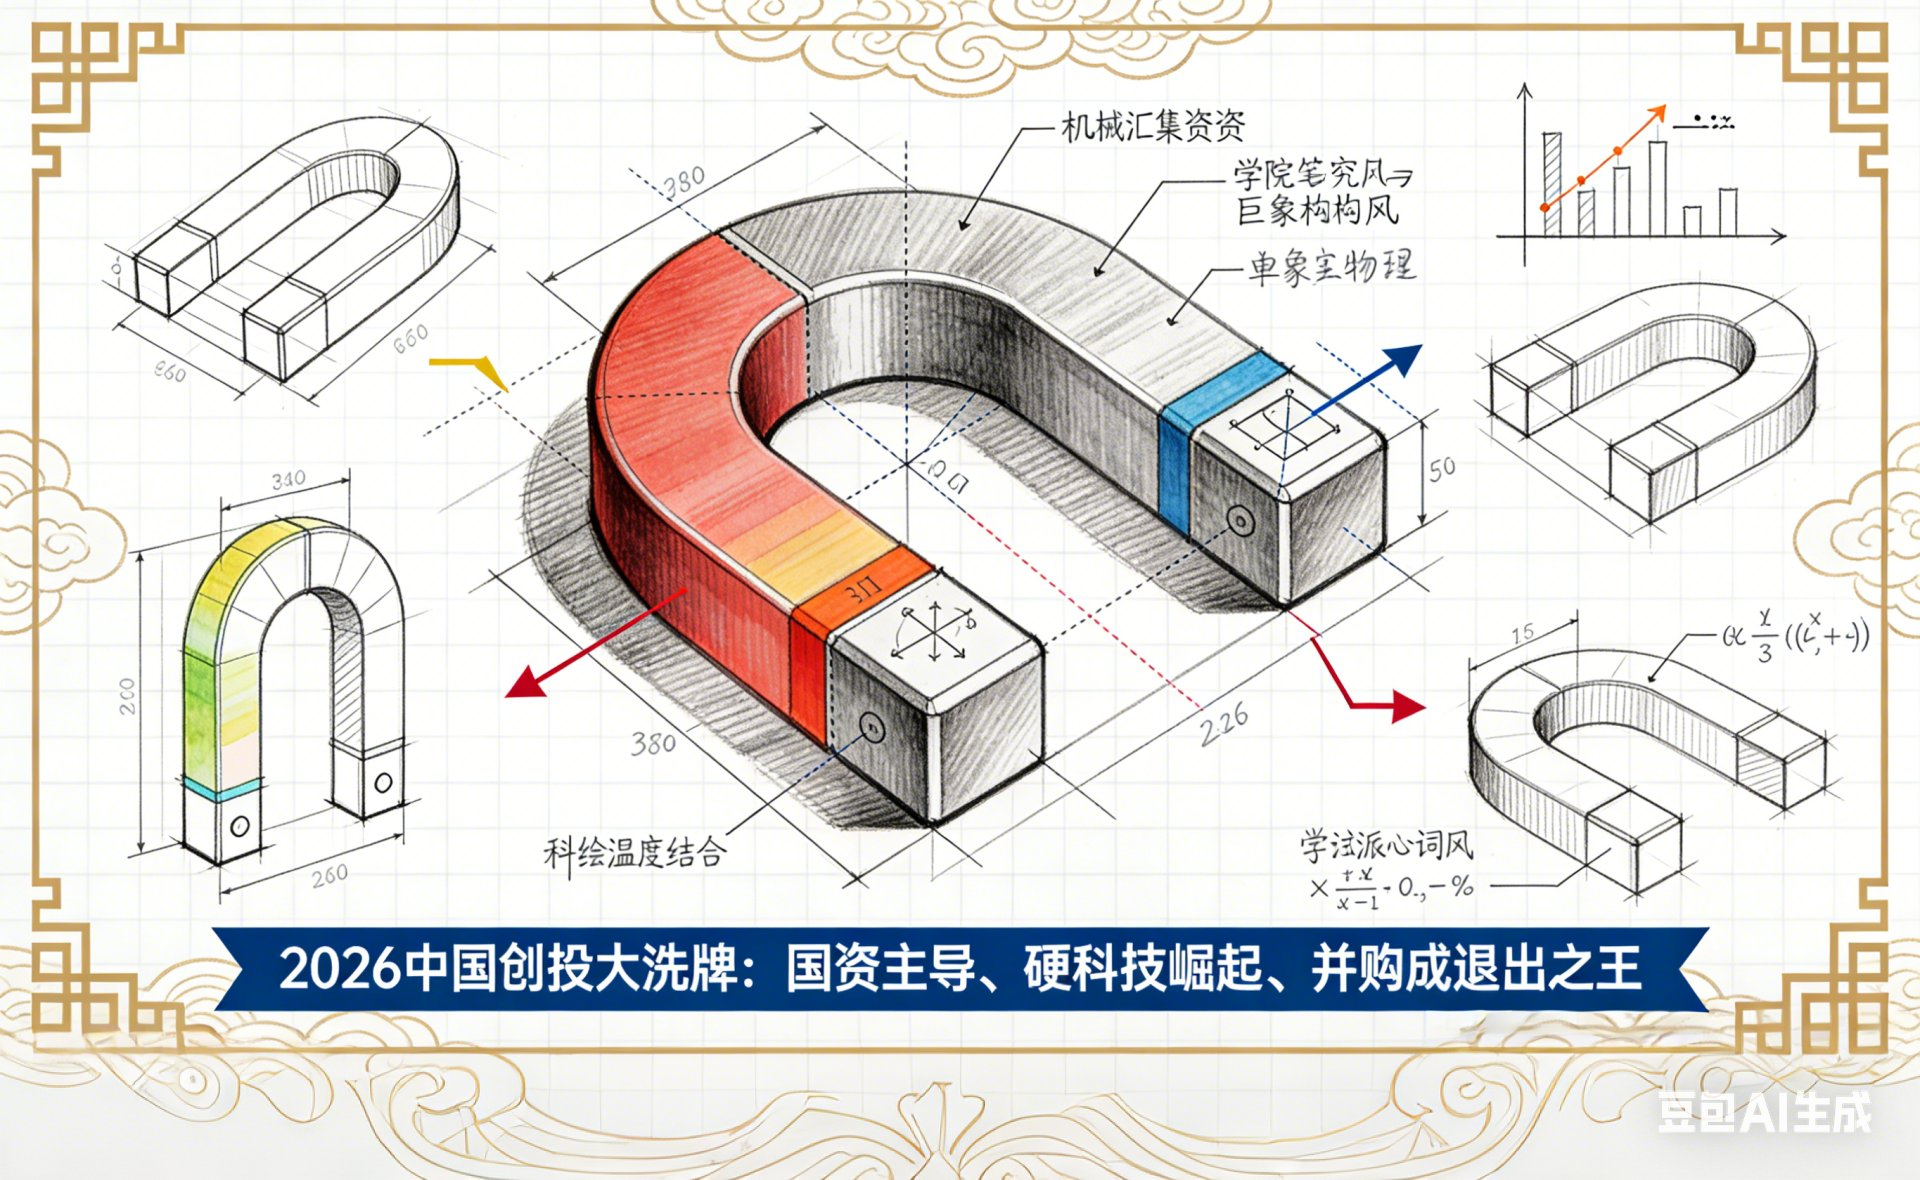
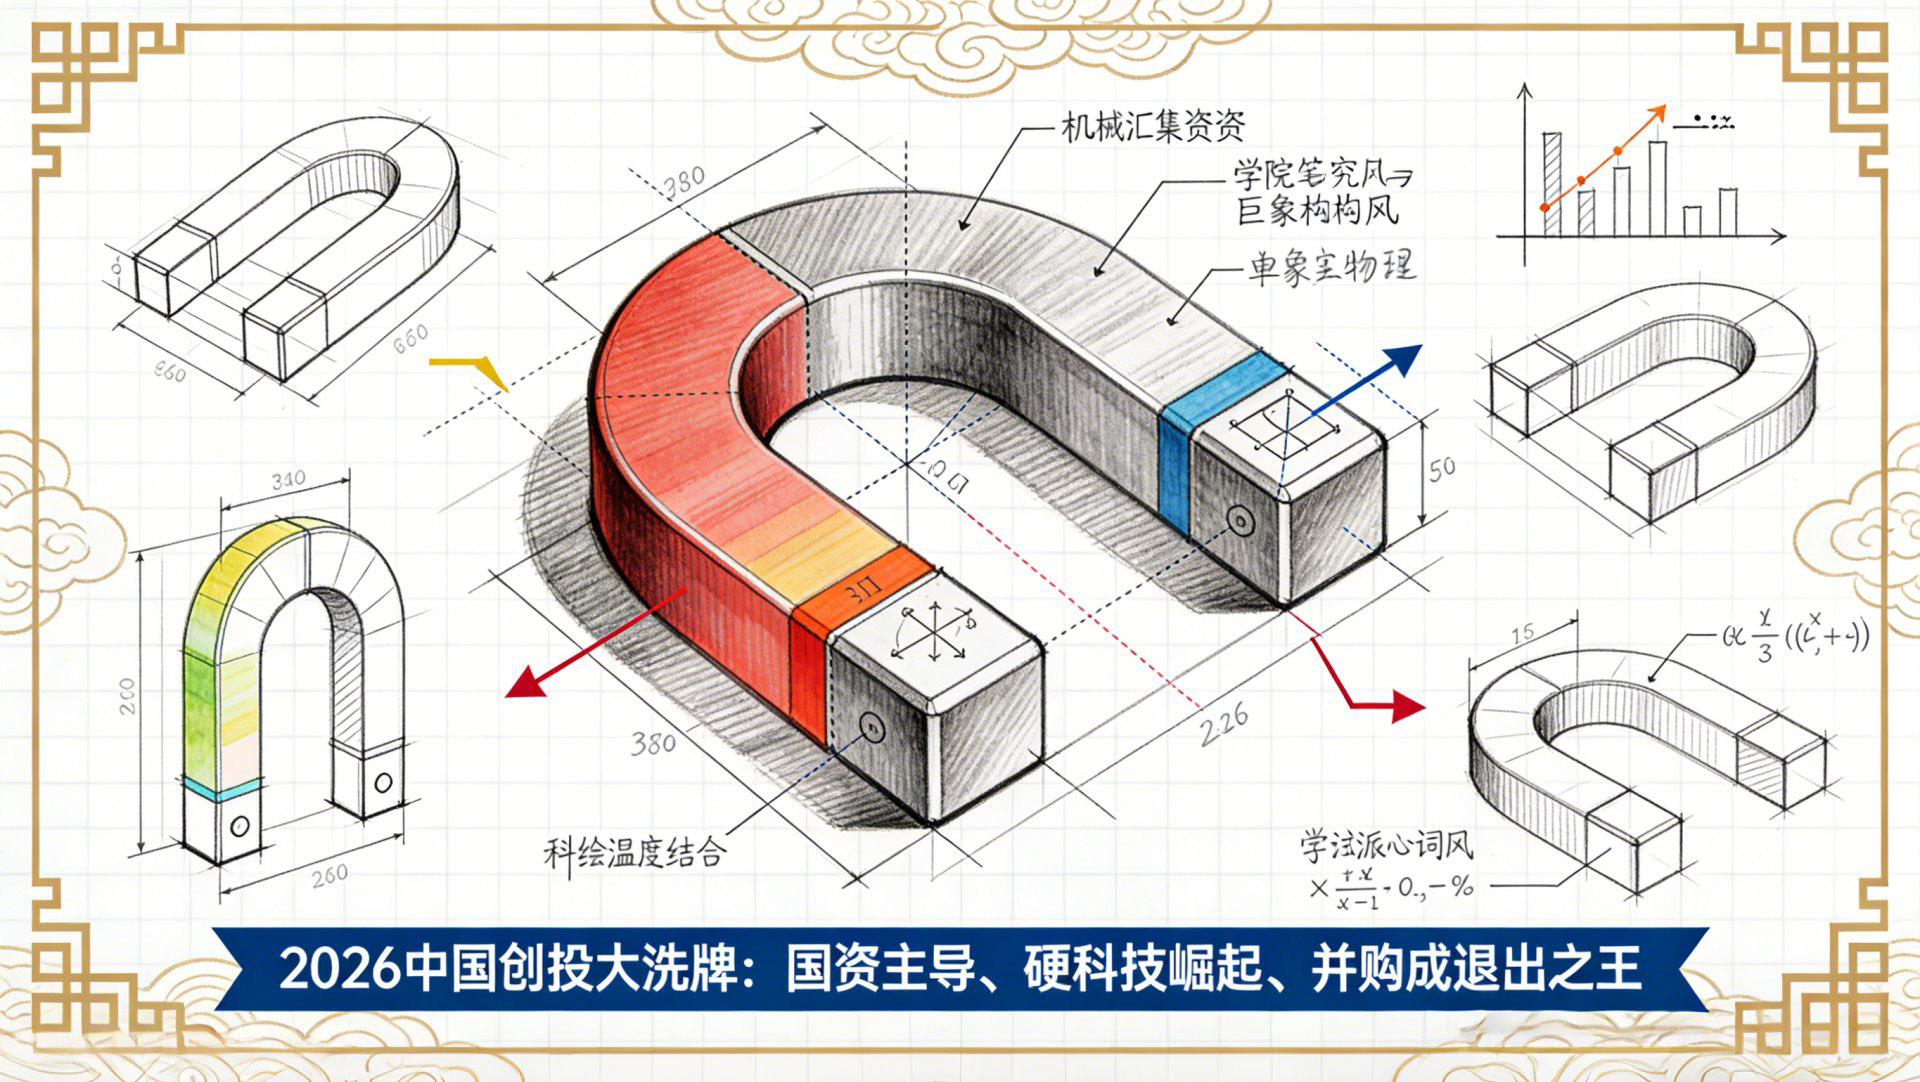
Add files via upload

diff --git a/examples/perovskite-visual-note-prompt-b.md b/examples/perovskite-visual-note-prompt-b.md
@@ -1,0 +1,75 @@
+# 案例 B：同一段文字，换一个主体 —— 阶梯金字塔
+
+> **为什么有第二个案例**：本 Skill 的核心承诺是「每次创作的主体都不同」。
+> 案例 A 选了 **沙漏引擎**（筛选隐喻），案例 B 选了 **阶梯金字塔**（能级阶梯隐喻）。
+> 底本、主标题、信息分区完全一样，只有核心主体和隐藏纹样变了 —— 出来的完全是两张图。
+
+- 底本：钙钛矿「可调门槛」科普段落（同案例 A）
+- 核心主体：**阶梯金字塔** STEPPED PYRAMID
+- 画幅：9:16 竖版 / 1024×1536
+- 隐藏纹样：阿拉伯几何纹（案例 A 用的是中国回纹）
+- 成图：`../assets/perovskite-example-b.png`
+
+![案例 B 成图](../assets/perovskite-example-b.png)
+
+---
+
+## 一、完整提示词（可直接粘给豆包 / 即梦）
+
+请生成一张 9:16 竖版（1024×1536）的学院派手绘视觉笔记插画。
+
+【主标题】画面顶部居中，粗衬线印刷体双语：
+「钙钛矿：唯一能把『门槛』调出来的光伏材料」
+「PEROVSKITE: THE MATERIAL WITH A TUNABLE THRESHOLD」
+
+【核心主体】画面视觉中心：一座**剖开的阶梯金字塔**——每一级台阶都装有螺旋升降机构与滑杆，台阶高度可连续调节，台阶侧面标注刻度 **1.2 → 3.0 eV**；塔身纵向剖开，露出内部能级阶梯与光子粒子沿台阶逐级跃迁的轨迹箭头；金字塔底部并列两块固定不可调的对照台阶，标注 **Si 1.12 eV** 与 **GaAs 1.42 eV** 并打叉标记；塔顶悬浮一卷可弯折卷起的超薄柔性薄膜片，标注厚度 **d ≈ 0.5 μm**（发丝 1/100）；塔体表面密布晶格缺陷小点，旁边标注 V_oc 依然很高。
+- 主体四周环绕 4 个小型设计草图：正视图、侧视图、45° 俯视图、爆炸分解图，简洁线条 + 铅笔排线阴影，标注关键尺寸与数据。
+- 机械制图标注：尺寸线、双向箭头、角度弧线、坐标轴、向量箭头、剖面符号。
+
+【信息分区】双语印刷体短标签 + 指引线：
+① 门槛出厂焊死 / FIXED THRESHOLD
+② 卤素配比 / HALIDE RATIO —— I·Br·Cl 配比旋钮对应 1.2–3.0 eV 滑杆
+③ 量体裁衣叠层 / TANDEM MATCH
+④ 极薄柔性 / ULTRA-THIN & FLEXIBLE —— d ≈ 0.5 μm
+⑤ 缺陷容忍 / DEFECT TOLERANCE
+
+【画布与底色】纯白主色，极淡 5mm 打印方格纸网格，四周不留深色底图。
+
+【线条与质感】HB/2B 铅笔素描干练线条，阴影用排线与交叉排线。
+
+【学术公式】ABX₃；E_g = 1.2–3.0 eV；E_g(Si) = 1.12 eV；E_g(GaAs) = 1.42 eV；λ = 1240/E_g (nm)；d ≈ 0.5 μm；V_oc；η
+
+【色彩】黑白灰为主，台阶 eV 刻度条、卤素 I/Br/Cl 色点、叠层淡色带用低饱和马克笔平涂，彩色面积 < 12%。
+
+【手写批注】5 处：「出厂焊死 vs 随配方变」「台阶高度连续可调 1.2–3.0 eV」「0.5μm＝发丝 1/100」「不用高温真空，可印刷」「缺陷多也不掉电压」
+
+【学院派细节】便签贴、回形针、胶带痕、页边编号、装订孔、红色批阅笔迹。
+
+【隐藏纹样】极淡的**阿拉伯几何纹**作底纹，不抢主体。
+
+【排版】内容充满画幅，严格网格对齐。
+
+【负向提示】不要真人、不要 3D 渲染质感、不要霓虹渐变、不要大面积深色背景、不要与主题无关的词语、不要错别字、不要水印。
+
+---
+
+## 二、精简版提示词（120 字内）
+
+9:16 竖版学院派手绘视觉笔记：白底方格纸上铅笔素描的「剖开阶梯金字塔」，每级台阶带升降滑杆与 1.2–3.0 eV 刻度，底部并列 Si 1.12 / GaAs 1.42 打叉固定台阶，塔顶悬浮 0.5 μm 可卷曲薄膜；四周四组草图与尺寸标注；含 ABX₃、E_g、λ=1240/E_g 公式，双语标签，淡彩马克笔色条，手写中文批注，便签贴，隐约阿拉伯几何纹底纹。
+
+---
+
+## 三、A / B 对照：同一个底本能差多少
+
+| 维度 | 案例 A | 案例 B |
+|---|---|---|
+| 底本文字 | 钙钛矿「可调门槛」 | 完全相同 |
+| 主标题 | 完全相同 | 完全相同 |
+| 核心主体 | 沙漏引擎 | 阶梯金字塔 |
+| 隐喻逻辑 | 光子穿过阀门被**筛选** | 台阶高度被**调高调低** |
+| 带隙的表达 | 阀门开口大小 | 每级台阶的升降高度 |
+| 隐藏纹样 | 中国回纹 | 阿拉伯几何纹 |
+| 视觉重心 | 中间腰部（节流点） | 纵向堆叠（阶梯阵列） |
+| 出图风格 | 机械腔体、粒子流 | 建筑体块、剖面层级 |
+
+**结论**：换主体 = 换隐喻 = 换整张图的叙事结构，而标题与信息分区可以原封不动。这正是 Skill 里「20 选 1」这一步的价值。

diff --git a/README_EN.md b/README_EN.md
@@ -1,8 +1,25 @@
-# Academic Visual-Notes Illustrator — AI Skill
+<div align="center">
+
+## AIOpenVC · Open AI Toolkit for Investment
+
+**Academic Visual-Notes Illustrator — AI Skill**
+
+*Reshaping how primary-market information gets expressed, with AI · by Yijue*
+
+[![License: MIT](https://img.shields.io/badge/License-MIT-green.svg)](./LICENSE)
+[![Stars](https://img.shields.io/github/stars/one5ds/visual-notes-illustrator?style=flat-square&label=Stars&color=yellow)](https://github.com/one5ds/visual-notes-illustrator/stargazers)
+[![PRs Welcome](https://img.shields.io/badge/PRs-welcome-brightgreen.svg)](./CONTRIBUTING.md)
+[![i18n](https://img.shields.io/badge/lang-中文%20%2F%20English-blue.svg)](./README.md)
+
+⭐ **If this method helps you, hit Star in the top-right corner — it's the best support you can give.** ⭐
+
+</div>
+
+---
 
 > Turn any paragraph into an academic, hand-drawn "visual notes" illustration — and get a precise, ready-to-paste image-generation prompt.
 
-[简体中文 README →](./README.md) · [Example prompt →](./examples/perovskite-visual-note-prompt.md)
+[简体中文 README →](./README.md) · [Example prompt →](./examples/perovskite-visual-note-prompt.md) · [Contributing →](./CONTRIBUTING.md)
 
 ![Example: perovskite "tunable threshold" visual note, 9:16 portrait](./assets/perovskite-example.png)
 
@@ -53,11 +70,11 @@ Prism refraction tower, gear tree, neuron coral, floating compass, fission nucle
 
 ```bash
 # WorkBuddy (user level)
-git clone https://github.com/<your-username>/visual-notes-illustrator.git \
+git clone https://github.com/one5ds/visual-notes-illustrator.git \
   ~/.workbuddy/skills/visual-notes-illustrator
 
 # Claude Code (user level)
-git clone https://github.com/<your-username>/visual-notes-illustrator.git \
+git clone https://github.com/one5ds/visual-notes-illustrator.git \
   ~/.claude/skills/visual-notes-illustrator
 ```
 
@@ -81,9 +98,11 @@ visual-notes-illustrator/
 ├── README.md                # Chinese README
 ├── README_EN.md             # This file
 ├── LICENSE                  # MIT
+├── CONTRIBUTING.md          # Contributing guide (subject-pool entries)
 ├── .gitignore
 ├── assets/
-│   ├── perovskite-example.png
+│   ├── perovskite-example.png    # Case A render (hourglass engine)
+│   ├── perovskite-example-b.png  # Case B render (stepped pyramid)
 │   └── gallery/
 │       ├── vc-landscape-2026.png       # 2026 VC landscape reshuffle
 │       ├── compass-imperfect-path.jpg  # Trace a perfect path in imperfection
@@ -91,7 +110,8 @@ visual-notes-illustrator/
 │       ├── pen-wisdom-labels.jpg       # Pen & prayer beads — annotated concept
 │       └── pen-wisdom-blueprint.jpg    # Pen & prayer beads — drafting sheet
 └── examples/
-    └── perovskite-visual-note-prompt.md
+    ├── perovskite-visual-note-prompt.md    # Case A prompt (hourglass engine)
+    └── perovskite-visual-note-prompt-b.md # Case B prompt (stepped pyramid)
 ```
 
 ## 9. Gallery
@@ -132,6 +152,25 @@ One visual spec, different source texts → different core subjects, different h
 </table>
 
 > The same source text supports multiple iterations: the last row shows two render directions — an annotated concept sheet and a drafting sheet — for one theme.
+
+### Same text, different subject = different picture (Case A / B)
+
+Identical source text, title and information zones — only the core subject and hidden motif change:
+
+<table>
+  <tr>
+    <td align="center" width="50%">
+      <img src="./assets/perovskite-example.png" alt="Case A hourglass engine"><br>
+      <sub><b>Case A · Hourglass Engine</b><br>Metaphor: photons filtered through an adjustable valve · Motif: Chinese fret</sub>
+    </td>
+    <td align="center" width="50%">
+      <img src="./assets/perovskite-example-b.png" alt="Case B stepped pyramid"><br>
+      <sub><b>Case B · Stepped Pyramid</b><br>Metaphor: step height raised and lowered · Motif: Arabic geometric</sub>
+    </td>
+  </tr>
+</table>
+
+Full prompts: [Case A](./examples/perovskite-visual-note-prompt.md) · [Case B](./examples/perovskite-visual-note-prompt-b.md)
 
 ## 10. License
 

diff --git a/CONTRIBUTING.md b/CONTRIBUTING.md
@@ -1,0 +1,114 @@
+# 贡献指南 / Contributing
+
+感谢你愿意给这个 Skill 添一块砖。最容易上手、也最有价值的贡献，就是**往核心主体元素池里加新词条**。
+
+Thanks for contributing. The easiest and most valuable contribution is **adding new entries to the core-subject pool**.
+
+---
+
+## 一、三种贡献方式
+
+| 方式 | 难度 | 说明 |
+|---|---|---|
+| ① 提交新元素词条 | ⭐ | 往 `SKILL.md` 的 50 元素池里加词（见第二节规范） |
+| ② 提交新案例 | ⭐⭐ | 往 `examples/` 加一个「底本 + 提示词 + 成图」的完整案例 |
+| ③ 改进提示词模板 | ⭐⭐⭐ | 调整风格规范、负向词、画幅参数等，需说明改动理由与前后对比 |
+
+---
+
+## 二、元素词条提交规范（重点）
+
+### 命名要求
+
+- **中文名 2–5 个字**，必须是一个**可画的形体**，不是抽象概念
+  - ✅ 齿轮树、沙漏引擎、洋葱剖面球
+  - ❌ 可持续发展、认知升级（不是形体，画不出来）
+- 具象物体、抽象几何体、机械装置、生物结构都可以
+- 不与池中已有词条重复或近义（提交前先搜一遍 `SKILL.md`）
+
+### 必须提供的四项信息
+
+```markdown
+- 中文名：气泡上升塔
+- English：Rising Bubble Tower
+- 隐喻指向：适合表达"层级跃迁 / 逐级筛选 / 能量由低到高"的主题
+- 适用主题类型：物理能级、组织晋升、数据分层、成长路径
+```
+
+### 评判标准（ maintainer 会按这四条审）
+
+1. **可画性**：能在铅笔素描里画出清晰结构，有可剖切的层次
+2. **通用性**：不只适配某一个特定主题，至少能套用到 3 类以上不同底本
+3. **区分度**：与池中已有词条视觉差异明显（换个词 ≠ 换张图）
+4. **无侵权**：不使用受版权保护的具体 IP 形象或品牌造型
+
+### 不要提交
+
+- 真实品牌 Logo、卡通 IP 形象
+- 纯抽象概念词（"自由""熵增"这类不是形体的）
+- 过于复杂的组合体（超过 3 个部件叠加，模型画不准）
+
+---
+
+## 三、提交步骤
+
+```bash
+# 1. Fork 本仓库 → 克隆你的 fork（下面这行 Fork 后请改成你自己的用户名）
+git clone https://github.com/one5ds/visual-notes-illustrator.git
+cd visual-notes-illustrator
+
+# 2. 新建分支
+git checkout -b feat/add-subject-terms
+
+# 3. 改文件（SKILL.md 中文版 + SKILL_EN.md 英文版同步改）
+#    一次建议加 1–5 个词条，便于评审
+
+# 4. 提交，commit 信息按下面格式
+git add .
+git commit -m "feat(subjects): 新增气泡上升塔等 3 个核心主体词条"
+git push origin feat/add-subject-terms
+```
+
+然后到 GitHub 发起 Pull Request，标题同 commit 信息，正文用这个模板：
+
+```markdown
+### 改动类型
+- [ ] 新增元素词条  - [ ] 新增案例  - [ ] 改进提示词模板
+
+### 新增词条
+| 中文名 | English | 隐喻指向 | 适用主题 |
+|---|---|---|---|
+| 气泡上升塔 | Rising Bubble Tower | 逐级跃迁、由低到高 | 能级、晋升、分层 |
+
+### 自检
+- [ ] 已确认不与池中已有词条重复
+- [ ] 中文名 2–5 字且是可画形体
+- [ ] 中英文版本已同步修改
+- [ ] 每个词条附了隐喻指向与适用主题类型
+```
+
+---
+
+## 四、新增案例的规范
+
+往 `examples/` 提交案例时，请包含三样东西：
+
+1. **底本文字**（一小段即可，注明出处或声明原创）
+2. **完整提示词 + 120 字精简版**（存为 `xxx-prompt.md`）
+3. **成图**（存到 `assets/`，文件名与文档对应，单张建议 < 5MB）
+
+案例要在 README 的「作品画廊」里能直观看出**主体与上一次不同**——同一个底本换主体出两张图的对照案例优先收录。
+
+---
+
+## 五、行为准则
+
+- 讨论对事不对人，评审意见针对词条质量，不针对提交者
+- 提交内容默认采用 MIT 协议授权
+- 图片类贡献请确保你有使用权（自己生成或已获授权）
+
+---
+
+## 六、联系方式
+
+提 Issue 时请带上：你的底本文字、用的模型（豆包/即梦/Midjourney/其他）、出图结果、期望改进点。有图必附，沟通效率翻倍。

diff --git a/README.md b/README.md
@@ -1,10 +1,27 @@
-# 学院派视觉笔记插画 Skill
+<div align="center">
+
+## AIOpenVC · 开放式 AI 投资工具生态
+
+**学院派视觉笔记插画 Skill**
+
+*用 AI 重构一级市场的信息表达 · 主理人：一觉同学*
+
+[![License: MIT](https://img.shields.io/badge/License-MIT-green.svg)](./LICENSE)
+[![Stars](https://img.shields.io/github/stars/one5ds/visual-notes-illustrator?style=flat-square&label=Stars&color=yellow)](https://github.com/one5ds/visual-notes-illustrator/stargazers)
+[![PRs Welcome](https://img.shields.io/badge/PRs-welcome-brightgreen.svg)](./CONTRIBUTING.md)
+[![i18n](https://img.shields.io/badge/lang-中文%20%2F%20English-blue.svg)](./README_EN.md)
+
+⭐ **如果这套方法论对你有用，请点右上角 Star —— 这是对它最好的支持** ⭐
+
+</div>
+
+---
 
 > 把任何一段文字，变成一张「实验室研究记录」质感的手绘视觉笔记插画，并产出豆包 / 即梦 / Midjourney 可用的精准提示词。
 >
 > Turn any paragraph into an academic hand-drawn "visual notes" illustration — with ready-to-use image-generation prompts.
 
-[English README →](./README_EN.md) · [示例 Example →](./examples/perovskite-visual-note-prompt.md)
+[English README →](./README_EN.md) · [示例 Example →](./examples/perovskite-visual-note-prompt.md) · [贡献指南 →](./CONTRIBUTING.md)
 
 ![示例：钙钛矿「可调门槛」视觉笔记（9:16 竖版）](./assets/perovskite-example.png)
 
@@ -83,9 +100,11 @@ visual-notes-illustrator/
 ├── README.md                # 本文件
 ├── README_EN.md             # English README
 ├── LICENSE                   # MIT
+├── CONTRIBUTING.md           # 贡献指南（重点：元素池新词条规范）
 ├── .gitignore
 ├── assets/
-│   ├── perovskite-example.png          # 示例成图（钙钛矿）
+│   ├── perovskite-example.png          # 案例 A 成图（沙漏引擎）
+│   ├── perovskite-example-b.png        # 案例 B 成图（阶梯金字塔）
 │   └── gallery/                        # 作品画廊
 │       ├── vc-landscape-2026.png       # 2026 创投大洗牌
 │       ├── compass-imperfect-path.jpg  # 在不完美中走出完美轨迹
@@ -93,7 +112,8 @@ visual-notes-illustrator/
 │       ├── pen-wisdom-labels.jpg       # 悟出世智慧（概念标注版）
 │       └── pen-wisdom-blueprint.jpg    # 悟出世智慧（设计制图版）
 └── examples/
-    └── perovskite-visual-note-prompt.md # 示例提示词（完整版 + 精简版）
+    ├── perovskite-visual-note-prompt.md   # 案例 A 提示词（沙漏引擎）
+    └── perovskite-visual-note-prompt-b.md # 案例 B 提示词（阶梯金字塔）
 ```
 
 ## 九、作品画廊
@@ -134,6 +154,25 @@ visual-notes-illustrator/
 </table>
 
 > 同一底本可以多轮迭代：最后两行就是同一主题的「概念标注版」与「设计制图版」两种出图方向。
+
+### 同一段文字，换主体 = 换一张图（案例 A / B）
+
+底本、主标题、信息分区完全不变，只换核心主体与隐藏纹样：
+
+<table>
+  <tr>
+    <td align="center" width="50%">
+      <img src="./assets/perovskite-example.png" alt="案例A 沙漏引擎"><br>
+      <sub><b>案例 A · 沙漏引擎</b><br>隐喻：光子穿过可调阀门被筛选 · 纹样：中国回纹</sub>
+    </td>
+    <td align="center" width="50%">
+      <img src="./assets/perovskite-example-b.png" alt="案例B 阶梯金字塔"><br>
+      <sub><b>案例 B · 阶梯金字塔</b><br>隐喻：台阶高度被调高调低 · 纹样：阿拉伯几何纹</sub>
+    </td>
+  </tr>
+</table>
+
+完整提示词：[案例 A](./examples/perovskite-visual-note-prompt.md) · [案例 B](./examples/perovskite-visual-note-prompt-b.md)
 
 ## 十、License
 
